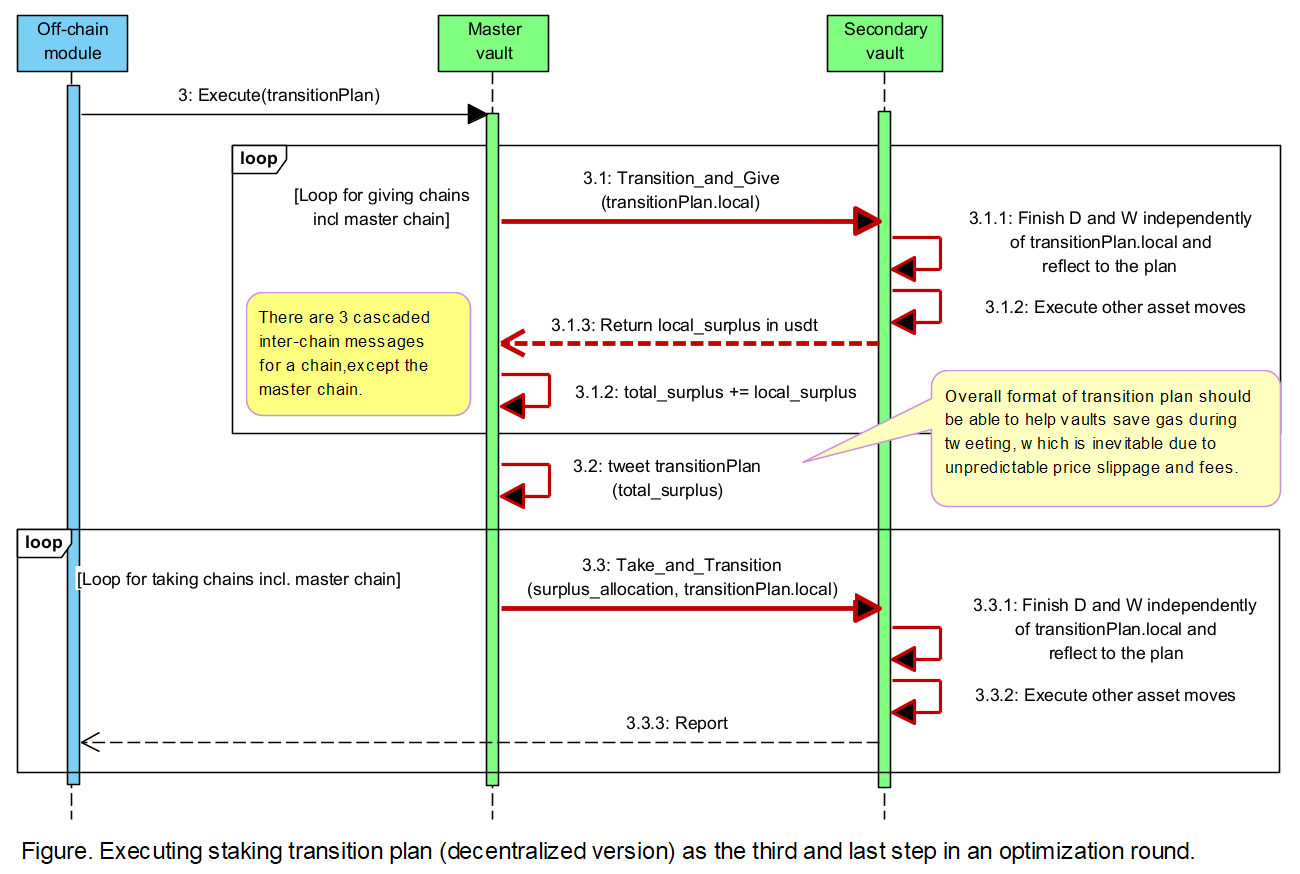
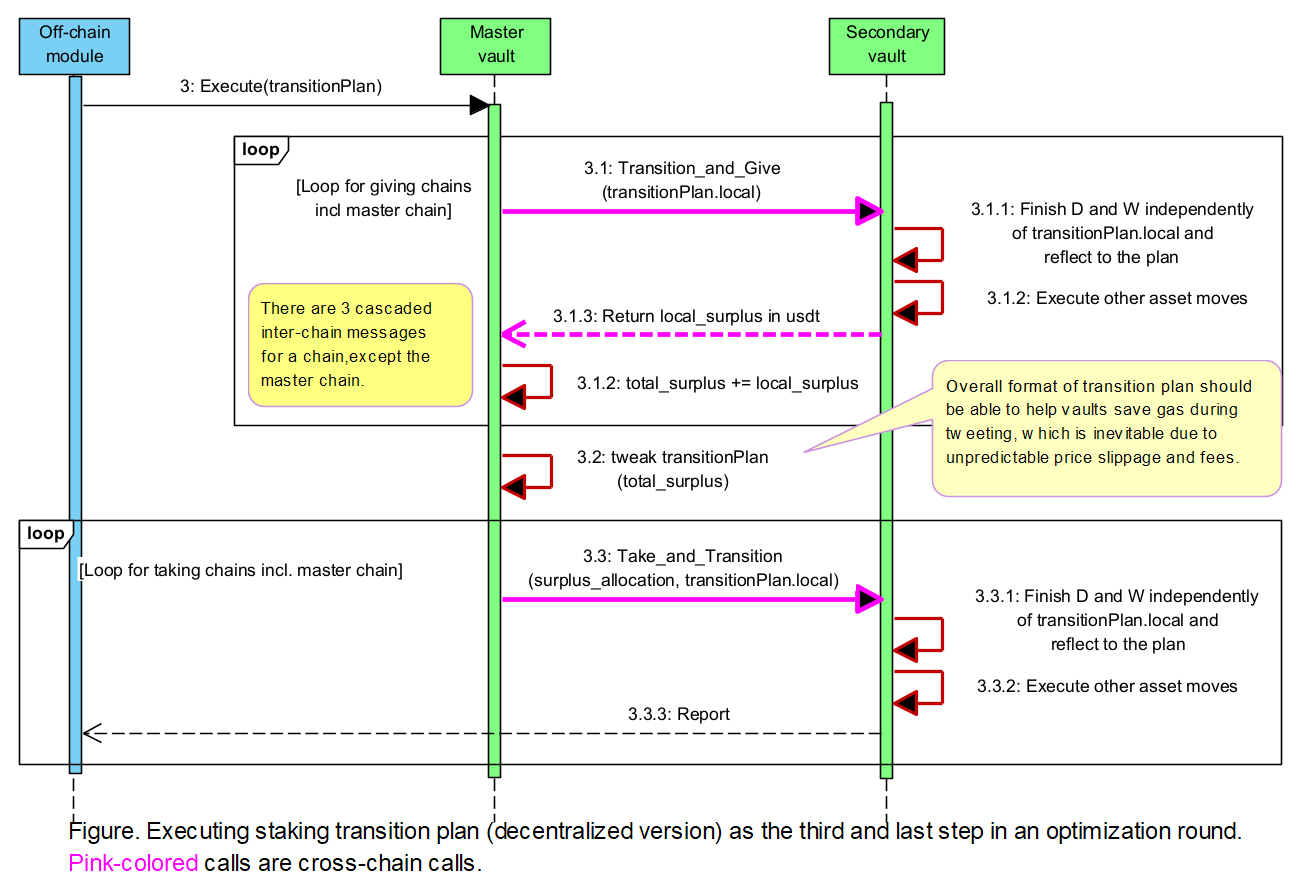
md

Changed region(s): [[0.0, 0.0, 0.9846, 0.9886], [0.7385, 0.2162, 0.9846, 0.3707]]

diff --git a/Architecture/Architecture.md b/Architecture/Architecture.md
@@ -17,7 +17,7 @@
 * 2. [Local vaults](#Localvaults)
 	* 2.1. [Vaults as smart contracts](#Vaultsassmartcontracts)
 	* 2.2. [Limited responsibility](#Limitedresponsibility)
-	* 2.3. [Local, home transportation to/from wallets](#Localhometransportationtofromwallets)
+	* 2.3. [Local transportation to/from wallets](#Localtransportationtofromwallets)
 	* 2.4. [Local moves of Staking Stock](#LocalmovesofStakingStock)
 * 3. [Omnichain staking](#Omnichainstaking)
 	* 3.1. [Definition](#Definition-1)
@@ -49,7 +49,7 @@
 		* 9.3.2. [Design recommendations](#Designrecommendations-1)
 	* 9.4. [Auxiliary descriptions of the architecture](#Auxiliarydescriptionsofthearchitecture)
 		* 9.4.1. [Deposit / Withdraw - deposits and rewards mixed 1:1](#DepositWithdraw-depositsandrewardsmixed1:1)
-* 10. [reference code](#referencecode)
+* 10. [Reference source code](#Referencesourcecode)
 
 <!-- vscode-markdown-toc-config
 	numbering=true
@@ -73,7 +73,7 @@
 ##  1. <a name='Overallstatetransition'></a>Overall state transition
 <br>
 
-###  <a name='Definition'></a>1.1 Definition
+###  1.1. <a name='Definition'></a>1.1 Definition
 <br>
 
 - **System Asset Snapshot**, **system asset/request state**, or simply **asset state**, is the state at a given time and identified by the followings:
@@ -205,7 +205,7 @@ According to the requirements, vaults do *not* have to
 - execute strictly asset move requests coming from outside, like transitionPlan identified in requirements, because there will not be negative profit.
 <br><br>
 
-###  2.3. <a name='Localhometransportationtofromwallets'></a>Local transportation to/from wallets
+###  2.3. <a name='Localtransportationtofromwallets'></a>Local transportation to/from wallets
 <br>
 
 Local vaults are responsible to:
@@ -740,6 +740,12 @@ Transparent cross-chain transportation is the fundamental basis of omnichain ope
 </p>
 <br>
 
+**Debase on cross-chain transportation**
+- There are total 6 cross-chain calls between the master vault and a (local) vault when the system carries out a round of optimization. (See below diagrams.)
+    - If the system is deployed on 10 chains and optimizes 24 times a day, we will have **1,440 cross-chain calls a day**.
+    - The 6 cascaded cross-chain calls may pose significant risks to integrity/consistency and User Experience, like runtime responsiveness and coding/maintenance complexity.
+- If we compromise on the integrity/consistency of optimization (not on asset moves), by adopting off-chain version of executing transition plans and thus exposing the system to rarely feasible hacking/attacks, then cross-chain calls will be cut down 50%, in return. (See below diagrams.)
+<br><br>
 
 ###  8.4. <a name='Operationsexemptibleofdecentralization'></a>Operations exemptible of decentralization
 Vaults cooperation for staking optimization **does not have to be decentralized**, in the meaning that the optimization doesn't have to provide ideal maximum profit nor have to be successful
@@ -820,7 +826,7 @@ Vaults cooperation for staking optimization **does not have to be decentralized*
 - The system will not serve other mix ratios but 1:1, because a ratio is meaning less as $deposits$ and rewards are all mixed and work together with constant compounding.
 
 
-##  10. <a name='referencecode'></a>Reference source code
+##  10. <a name='Referencesourcecode'></a>Reference source code
 
 Below comes reference code that sketches and/or decides the code architecture.
 
